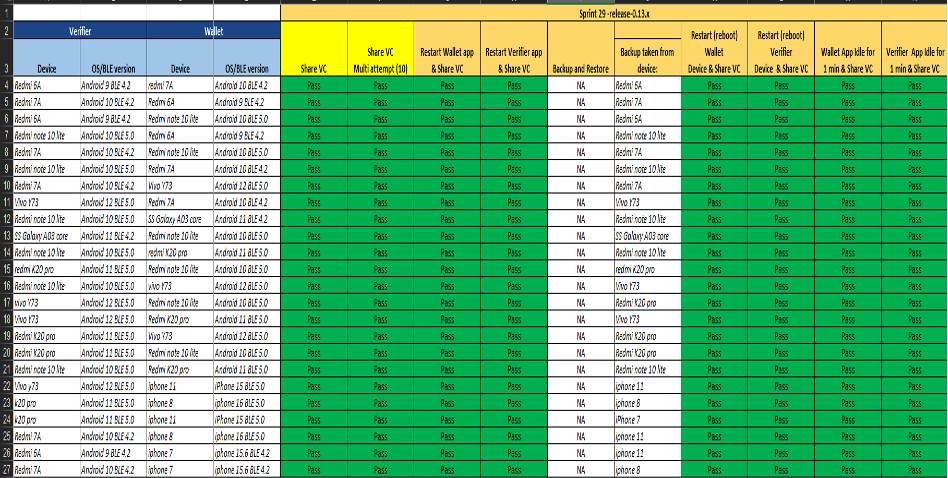
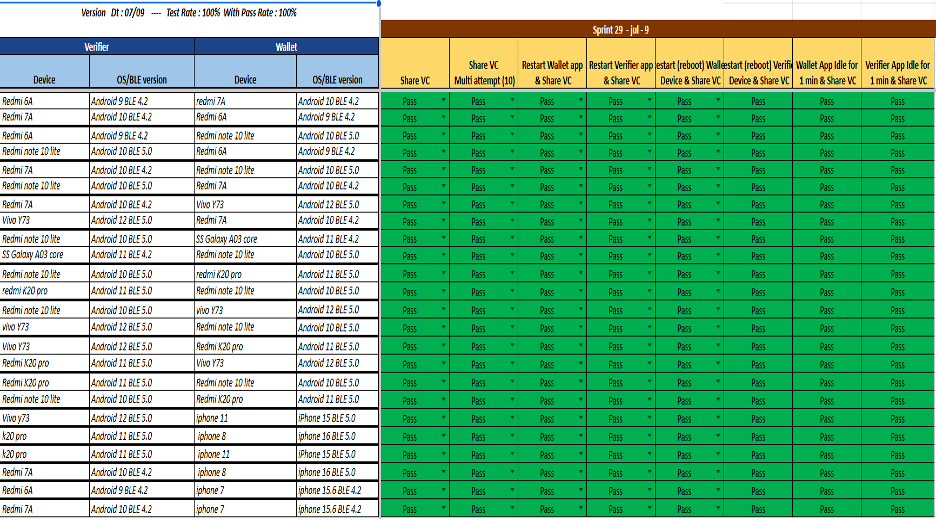
GITBOOK-558: Inji Mobile - 0.13.0 - Test Report - 26-July-24

diff --git a/docs/inji-mobile-wallet/versions/version-0.13.0/test-report.md b/docs/inji-mobile-wallet/versions/version-0.13.0/test-report.md
@@ -2,9 +2,9 @@
 
 ## Testing Scope
 
-The scope of testing is to verify fitment to the specification from the perspective of&#x20;
+The scope of testing is to verify fitment to the specification from the perspective of
 
-* Functionality&#x20;
+* Functionality
 * Deployability
 * Configurability
 * Customizability
@@ -30,22 +30,22 @@ The Inji testing scope revolves around the following flows:
 * QR code Login
 * Logout
 
-## Test Approach <a href="#id-2et92p0" id="id-2et92p0"></a>
+## Test Approach
 
 Persona based approach has been adopted to perform the IV\&V, by simulating test scenarios that resemble a real-time implementation.
 
 A Persona is a fictional character/user profile created to represent a user type that might use a product/or a service in a similar way. Persona based testing is a software testing technique that puts software testers in the customer's shoes, assesses their needs from the software and thereby determines use cases/scenarios that the customers will execute. The persona needs may be addressed through any of the following.
 
-* Functionality&#x20;
-* Deployability&#x20;
-* Configurability&#x20;
-* Customizability&#x20;
+* Functionality
+* Deploy ability
+* Configurability
+* Customizability
 
 The verification methods may differ based on how the need was addressed.
 
 For regression check, “MOSIP Test Rig” - an automation testing suite - which is indigenously designed and developed for supporting persona-based testing. MOSIP Test Rig covers the end-to-end test execution and reporting. The end-to-end functional test scenarios are written starting from pre-registration to creation of packet in registration center, processing the packet through the registration processor, generating UIN and authenticating identity using IDA through various permutation and combinations of cases being covered. MOSIP Test Rig will be an open-source artifact which can also be enhanced and used by countries to validate the SI deliveries before going live. Persona classes include both negative and positive personas. Negative persona classes include users like Bribed Registration Office, Malicious Insider etc. The needs of positive persona classes must be met, whereas the needs of negative persona classes must be effectively restricted by the software.
 
-## Verified configuration <a href="#tyjcwt" id="tyjcwt"></a>
+## Verified configuration
 
 Verification is performed on various configurations as mentioned below
 
@@ -55,95 +55,91 @@ Verification is performed on various configurations as mentioned below
   * 2 Lang configuration
   * 3 Lang configuration
 
+##
+
 ## Feature Health
 
-**On Andron Device**:&#x20;
+On Android Device:
 
 <figure><img src="../../../.gitbook/assets/Inji_Mobile_Releases_0.13.0_Test_Report_Feature_Health_On_Android.png" alt=""><figcaption></figcaption></figure>
 
-**On iOS Device**:
+On iOS Device:
 
 <figure><img src="../../../.gitbook/assets/Inji_Mobile_Releases_0.13.0_Test_Report_Feature_Health_On_IOS.png" alt=""><figcaption></figcaption></figure>
 
-### Test execution statistics
+## Test execution statistics
 
-#### Functional test results by modules <a href="#id-2s8eyo1" id="id-2s8eyo1"></a>
+### Functional test results by modules
 
-Below are the test metrics by performing functional testing using mock MDS and mock ABIS. The process followed was black box testing which based its test cases on the specifications of the software component under test. The functional test was performed in combination of individual module testing as well as integration testing. Test data were prepared in line with the user stories. Expected results were monitored by examining the user interface. The coverage includes GUI testing, System testing, End-To-End flows across multiple languages and configurations. The testing cycle included simulation of multiple identity schema and respective UI schema configurations.
+Below are the test metrics by performing functional testing using mock MDS and mock ABIS. The process followed was black box testing which based its test cases on the specifications of the software component under test. The functional test was performed in combination with individual module testing as well as integration testing. Test data were prepared in line with the user stories. Expected results were monitored by examining the user interface. The coverage includes GUI testing, System testing, End-To-End flows across multiple languages and configurations. The testing cycle included simulation of multiple identity schema and respective UI schema configurations.
 
-&#x20;
-
-|                                       |        |        |               |
-| ------------------------------------- | ------ | ------ | ------------- |
-| Total                                 | Passed | Failed | Skipped (N/A) |
-| 2322                                  | 2076   | 206    | 40            |
-| Test Rate: 98% With Pass Rate: 89.40% |        |        |               |
-
-
+|                                    |            |            |                   |
+| :--------------------------------: | :--------: | :--------: | :---------------: |
+|              **Total**             | **Passed** | **Failed** | **Skipped (N/A)** |
+|                2303                |    2034    |     226    |         43        |
+| Test Rate: 98% With Pass Rate: 90% |            |            |                   |
 
 Here is the detailed breakdown of metrics for each module:
 
-|                                               |               |            |
-| --------------------------------------------- | ------------- | ---------- |
-|                                               |               | Test cases |
-| On Android Device                             | Total         | 1268       |
-|                                               | Passed        | 1103       |
-|                                               | Failed        | 139        |
-|                                               | Skipped (N/A) | 26         |
-| <p> </p><p> On iOS Device</p><p> </p><p> </p> | Total         | 1054       |
-|                                               | Passed        | 973        |
-|                                               | Failed        | 67         |
-|                                               | Skipped (N/A) | 14         |
+|                   |               |                |
+| :---------------: | :-----------: | :------------: |
+|                   |               | **Test cases** |
+| On Android Device |     Total     |      1236      |
+|                   |     Passed    |      1085      |
+|                   |     Failed    |       124      |
+|                   | Skipped (N/A) |       27       |
+|   On iOS Device   |     Total     |      1067      |
+|                   |     Passed    |       949      |
+|                   |     Failed    |       102      |
+|                   | Skipped (N/A) |       16       |
 
-&#x20;
-
-#### External API verification results by modules <a href="#id-17dp8vu" id="id-17dp8vu"></a>
+### External API verification results by modules
 
 Below section provides details on API test metrics by executing MOSIP functional automation Framework. All external API test executions were performed at module level isolation. Each end point is tested with the test data and expectations of each test data are mapped to assert the test case.
 
-&#x20;
-
-| Total                                  | Passed | Failed | Skipped |
-| -------------------------------------- | ------ | ------ | ------- |
-| 1335                                   | 1272   | 32     | 28      |
-| Test Rate: 97.6% With Pass Rate: 97.5% |        |        |         |
+|                                        |            |            |             |
+| :------------------------------------: | :--------: | :--------: | :---------: |
+|                **Total**               | **Passed** | **Failed** | **Skipped** |
+|                  1335                  |    1275    |     32     |      28     |
+| Test Rate: 97.9% With Pass Rate: 97.5% |            |            |             |
 
 Here is the detailed breakdown of metrics
 
-|           | Test cases |      |
-| --------- | ---------- | ---- |
-| Mobile ID | Total      | 63   |
-|           | Passed     | 61   |
-|           | Failed     | 2    |
-|           | Skipped    | 0    |
-| eSignet   | Total      | 1272 |
-|           | Passed     | 1214 |
-|           | Failed     | 30   |
-|           | Skipped    | 28   |
+|           |         |                |
+| :-------: | :-----: | :------------: |
+|           |         | **Test cases** |
+| Mobile ID |  Total  |       63       |
+|           |  Passed |       61       |
+|           |  Failed |        2       |
+|           | Skipped |        0       |
+|  eSignet  |  Total  |      1272      |
+|           |  Passed |      1214      |
+|           |  Failed |       30       |
+|           | Skipped |       28       |
 
-#### UI Automation results <a href="#id-3rdcrjn" id="id-3rdcrjn"></a>
+### UI Automation results
 
 Below section provides details on Ui Automation by executing MOSIP functional automation Framework.
 
-| Total                                  | Passed | Failed | Skipped |
-| -------------------------------------- | ------ | ------ | ------- |
-| 120                                    | 107    | 13     | 0       |
-| Test Rate: 100% With Pass Rate: 89.16% |        |        |         |
+|                                        |            |            |             |
+| :------------------------------------: | :--------: | :--------: | :---------: |
+|                **Total**               | **Passed** | **Failed** | **Skipped** |
+|                   120                  |     107    |     13     |      0      |
+| Test Rate: 100% With Pass Rate: 89.16% |            |            |             |
 
 Here is the detailed breakdown of metrics
 
-|                                                |         | Test cases |
-| ---------------------------------------------- | ------- | ---------- |
-| <p> </p><p> </p><p> </p><p>Android</p><p> </p> | Total   | 63         |
-|                                                | Passed  | 54         |
-|                                                | Failed  | 9          |
-|                                                | Skipped | 0          |
-| <p> </p><p> </p><p>iOS</p><p> </p>             | Total   | 56         |
-|                                                | Passed  | 49         |
-|                                                | Failed  | 7          |
-|                                                | Skipped | 0          |
-
-
+|         |         |                |
+| :-----: | :-----: | :------------: |
+|         |         | **Test cases** |
+| Android |  Total  |       63       |
+|         |  Passed |       54       |
+|         |  Failed |        9       |
+|         | Skipped |        0       |
+|   iOS   |  Total  |       57       |
+|         |  Passed |       53       |
+|         |  Failed |        4       |
+|         | Skipped |        0       |
 
 Functional and test rig code base branch which is used for the above metrics is:
 
@@ -151,18 +147,19 @@ Hash Tag:
 
 SHA: sha256: b477f64889c7340a1d1ca6b17601473c30d206de8de9c8a69e8879be38e1dbb5
 
-#### Testing with various device combinations <a href="#id-26in1rg" id="id-26in1rg"></a>
+### Testing with various device combinations
 
 Below are the test metrics by performing VC Sharing functionality on various device combinations
 
 <figure><img src="../../../.gitbook/assets/Inji_Mobile_Releases_0.13.0_Test_Report_Feature_Health_Various_Device.png" alt=""><figcaption></figcaption></figure>
 
-| Total                                | Passed | Failed | Skipped |
-| ------------------------------------ | ------ | ------ | ------- |
-| 192                                  | 192    | 0      | 0       |
-| Test Rate: 100% With Pass Rate: 100% |        |        |         |
+|                                      |            |            |             |
+| :----------------------------------: | :--------: | :--------: | :---------: |
+|               **Total**              | **Passed** | **Failed** | **Skipped** |
+|                  192                 |     192    |      0     |      0      |
+| Test Rate: 100% With Pass Rate: 100% |            |            |             |
 
-#### Detailed Test metrics <a href="#lnxbz9" id="lnxbz9"></a>
+### Detailed Test metrics
 
 Below are the detailed test metrics by performing manual/automation testing. The project metrics are derived from Defect density, Test coverage, Test execution coverage, test tracking and efficiency.
 
@@ -171,6 +168,4 @@ The various metrics that assist in test tracking and efficiency are as follows:
 * Passed Test Cases Coverage: It measures the percentage of passed test cases. (Number of passed tests / Total number of tests executed) x 100
 * Failed Test Case Coverage: It measures the percentage of all the failed test cases. (Number of failed tests / Total number of test cases executed) x 100
 
-Github link for the xls file:
-
-\<TBD>
+Git hub link for the xls file is [here](https://github.com/mosip/test-management/tree/master/inji/0.13.0).
